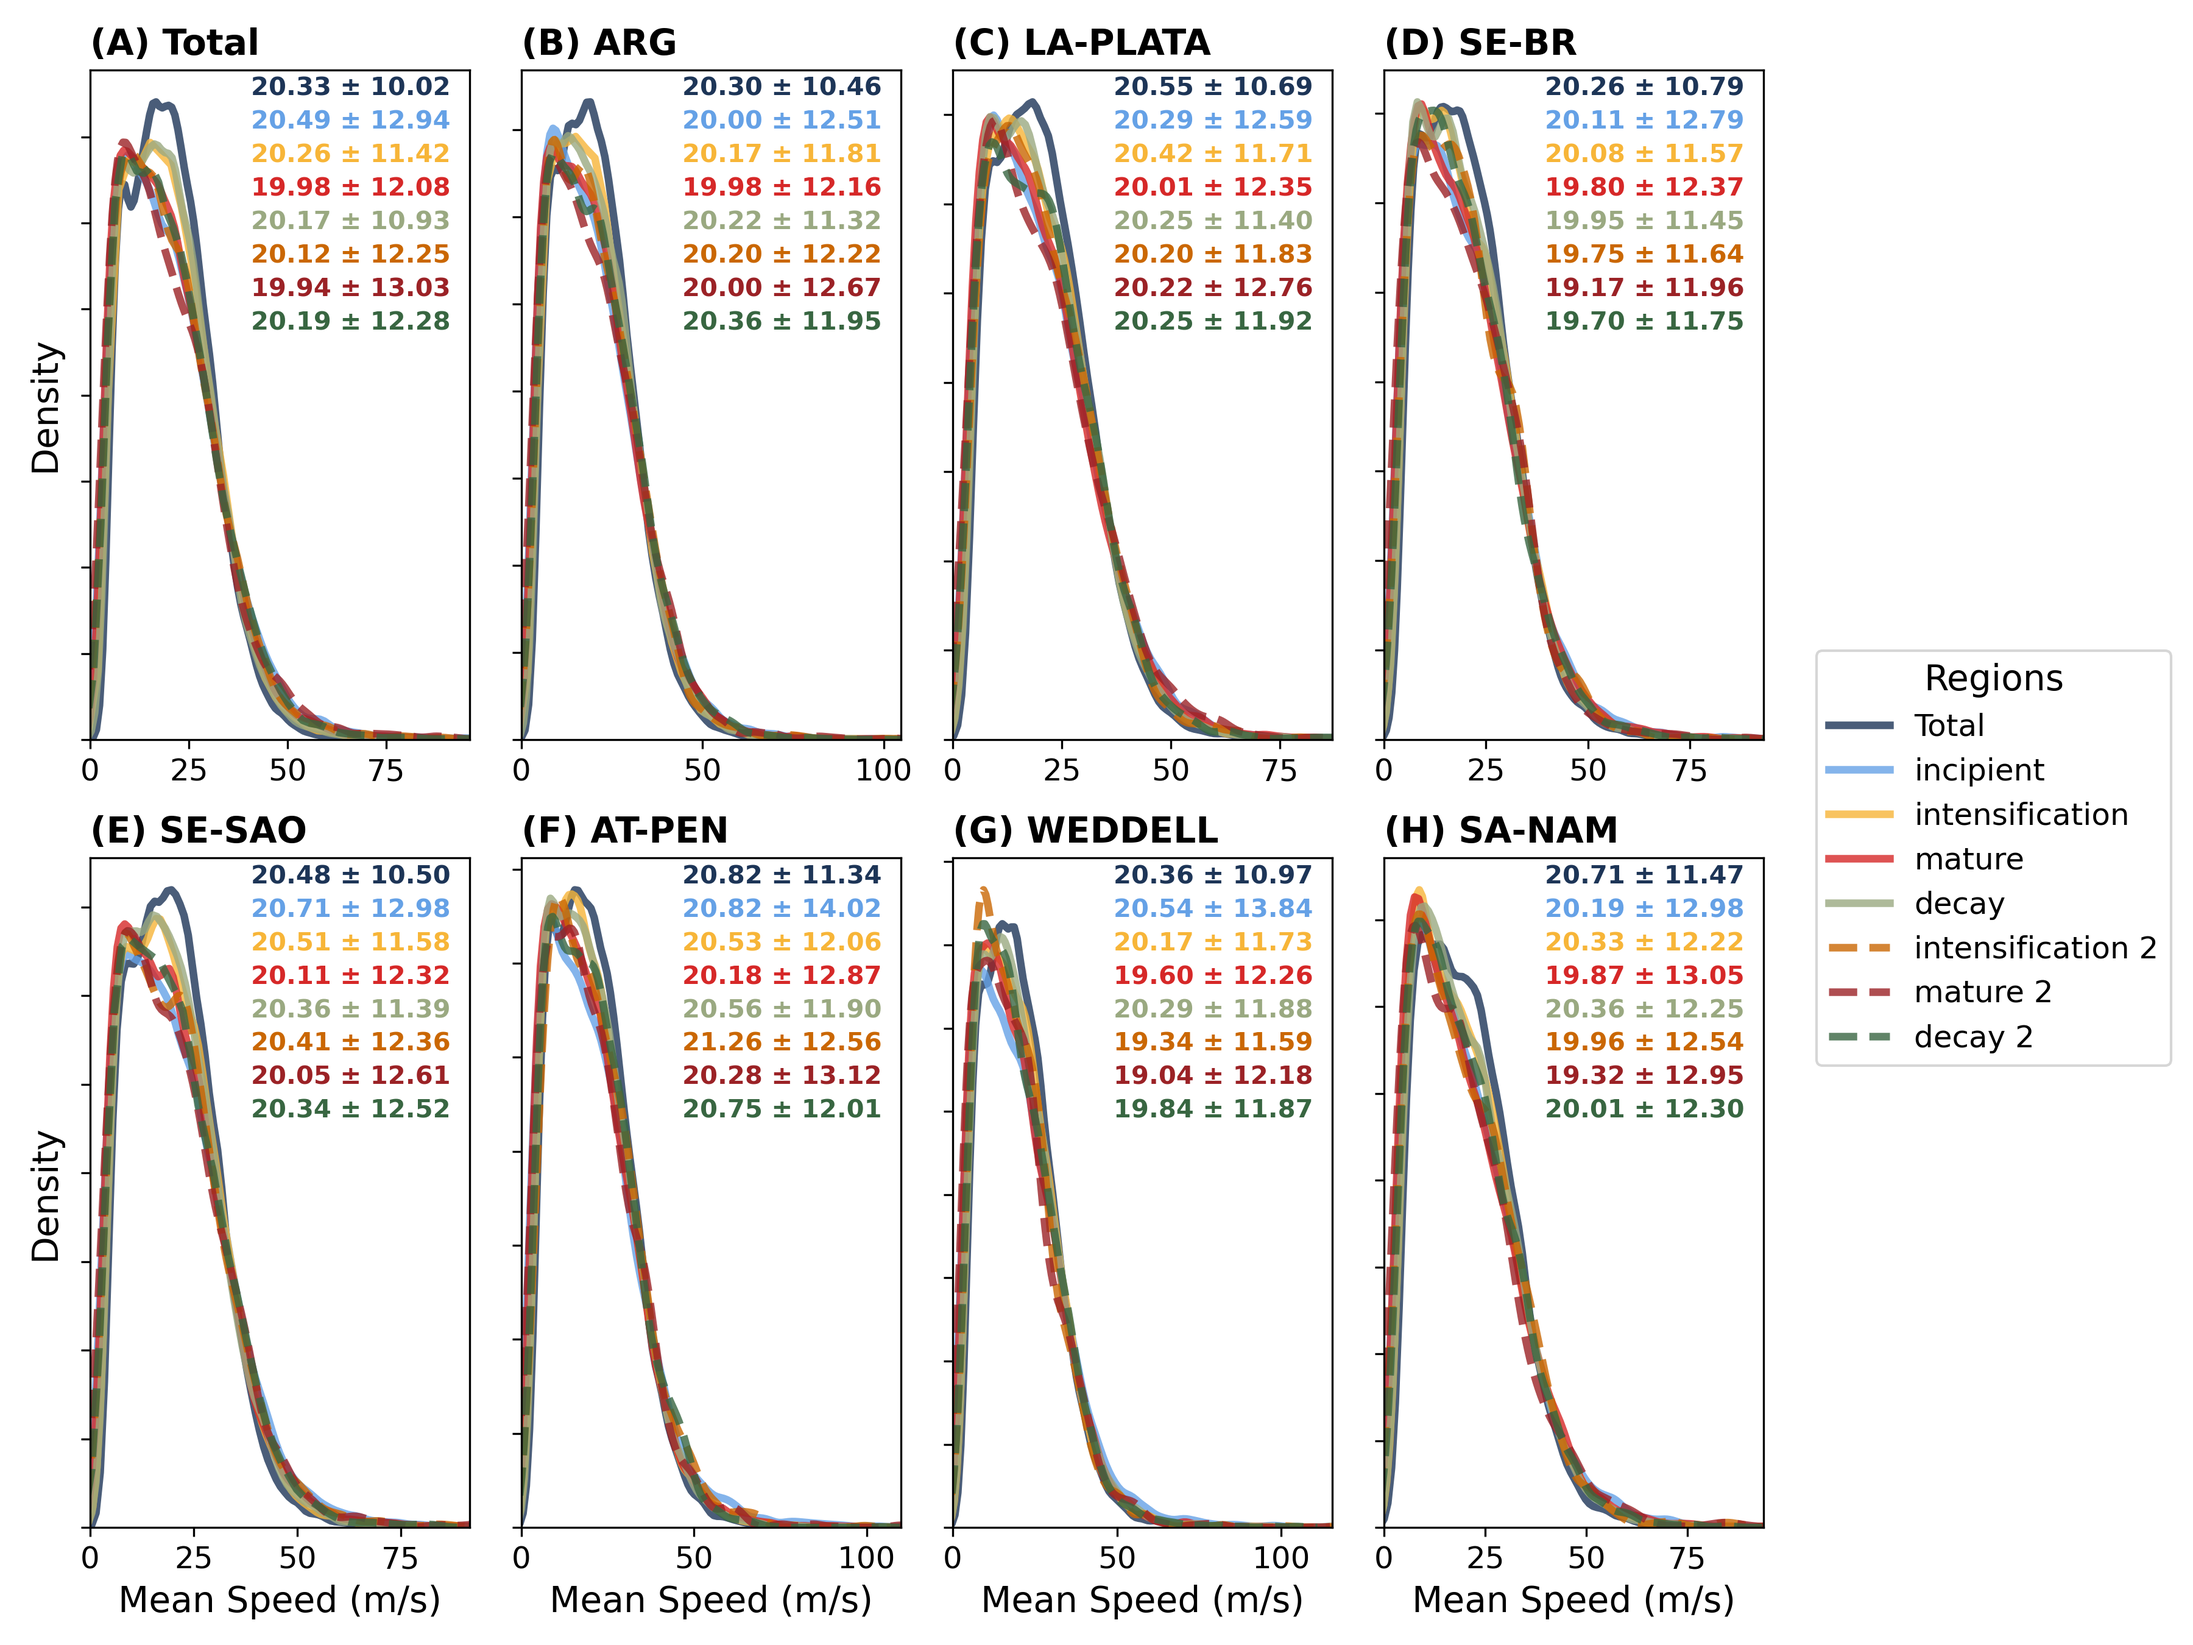
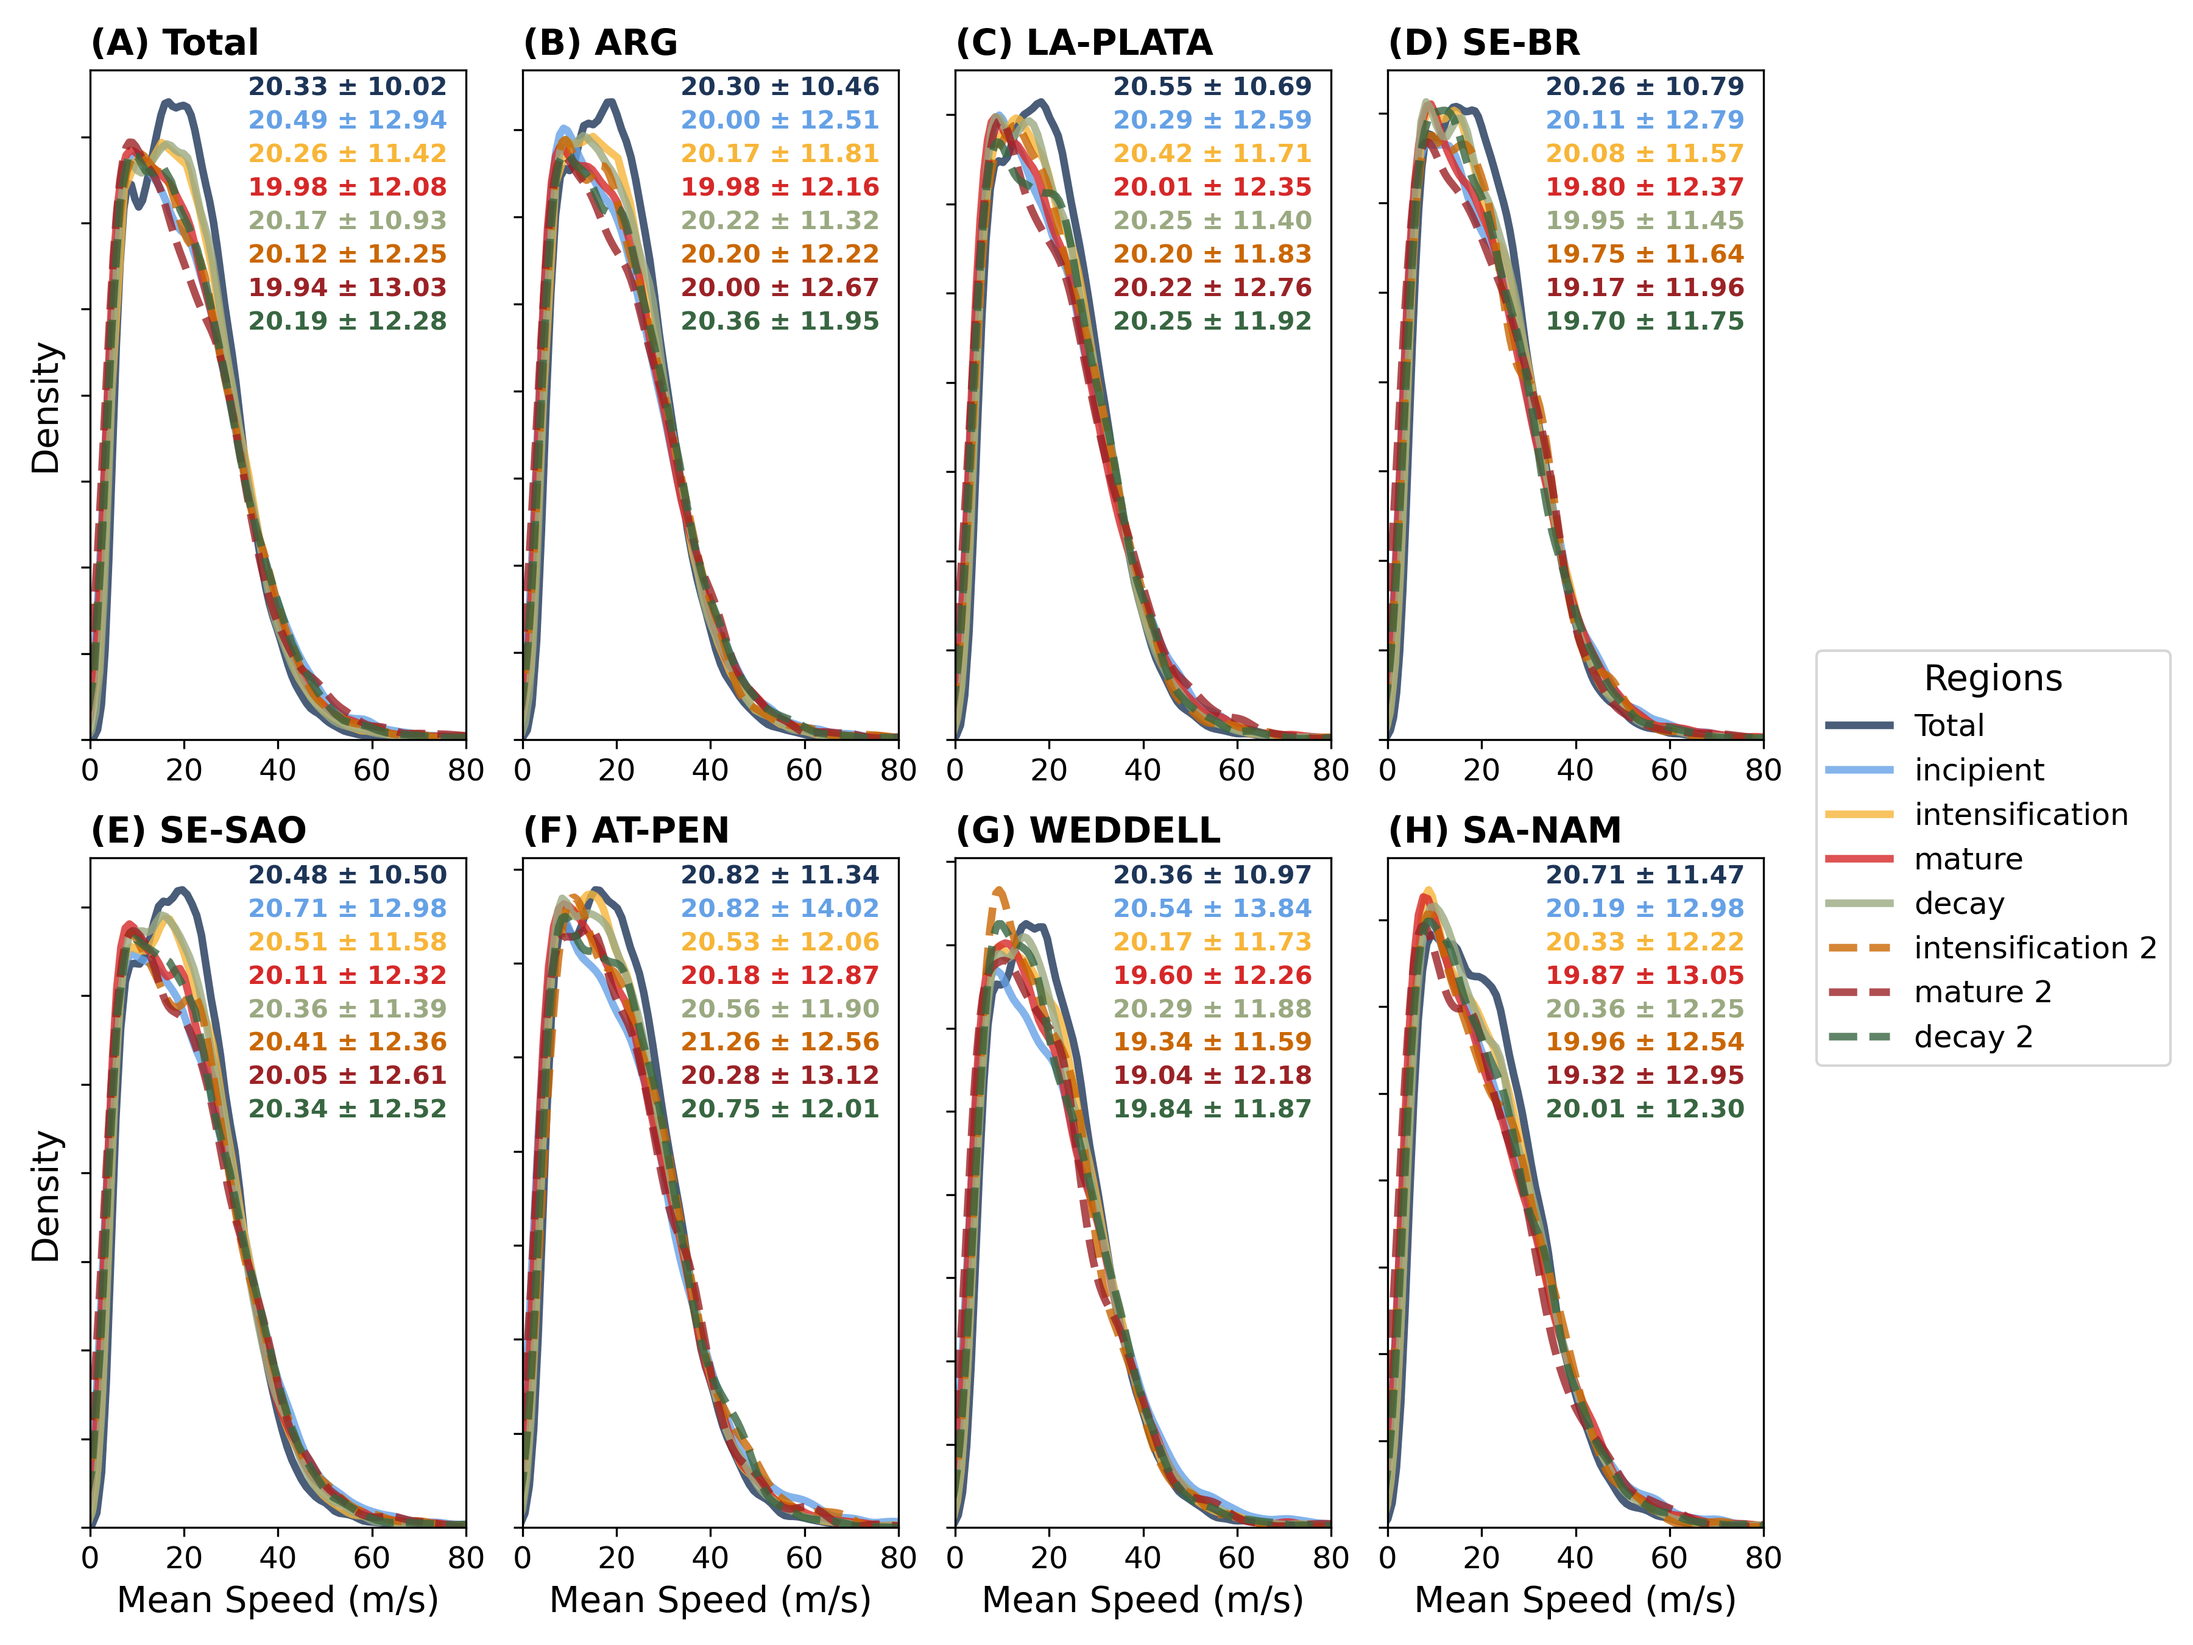
Update x axis

Changed region(s): [[0.0311, 0.4978, 0.8089, 0.9956], [0.0311, 0.0, 0.8089, 0.4667], [0.4356, 0.0, 0.56, 0.0311]]

diff --git a/src_manuscript_life-cycle/histograms.py b/src_manuscript_life-cycle/histograms.py
@@ -6,7 +6,7 @@
 #    By: daniloceano <daniloceano@student.42.fr>    +#+  +:+       +#+         #
 #                                                 +#+#+#+#+#+   +#+            #
 #    Created: 2023/10/30 19:37:18 by daniloceano       #+#    #+#              #
-#    Updated: 2023/11/01 16:01:48 by daniloceano      ###   ########.fr        #
+#    Updated: 2023/11/01 20:55:05 by daniloceano      ###   ########.fr        #
 #                                                                              #
 # **************************************************************************** #
 
@@ -285,6 +285,9 @@ def compare_phases_by_region(data, n_bins=10):
 
         fig, axes = plt.subplots(2, 4, figsize=(12, 9))
 
+        # Determine the global max x-axis value for the current metric across all regions and phases
+        global_max_value = round(data[metric].quantile(QUANTILE_VALUES[metric]), -1)
+
         idx = 0
         for row in range(2):
             for column in range(4):
@@ -320,10 +323,10 @@ def compare_phases_by_region(data, n_bins=10):
                                 color=COLOR_PHASES[phase], linestyle=ls,
                                 linewidth=3, alpha=.8)
                 
-                # Set the x-axis limit
-                max_quantile_value = np.max(max_values)
-                ax.set_xlim(0, max_quantile_value)
-
+                # Set the x-axis limit and ticks
+                ax.set_xlim(0, global_max_value)
+                ax.set_xticks(np.linspace(0, global_max_value, 5))
+                
                 # Set titles, labels
                 ax.xaxis.set_tick_params(labelsize=12)
                 ax.set_yticklabels([])
@@ -361,7 +364,7 @@ def main():
     djf_data = database[database['Season'] == 'DJF']
     # plot_histograms_with_kde(jja_data, djf_data)
     
-    plot_histograms_for_total_season(total_data)
+    # plot_histograms_for_total_season(total_data)
 
     compare_phases_by_region(database)
 
